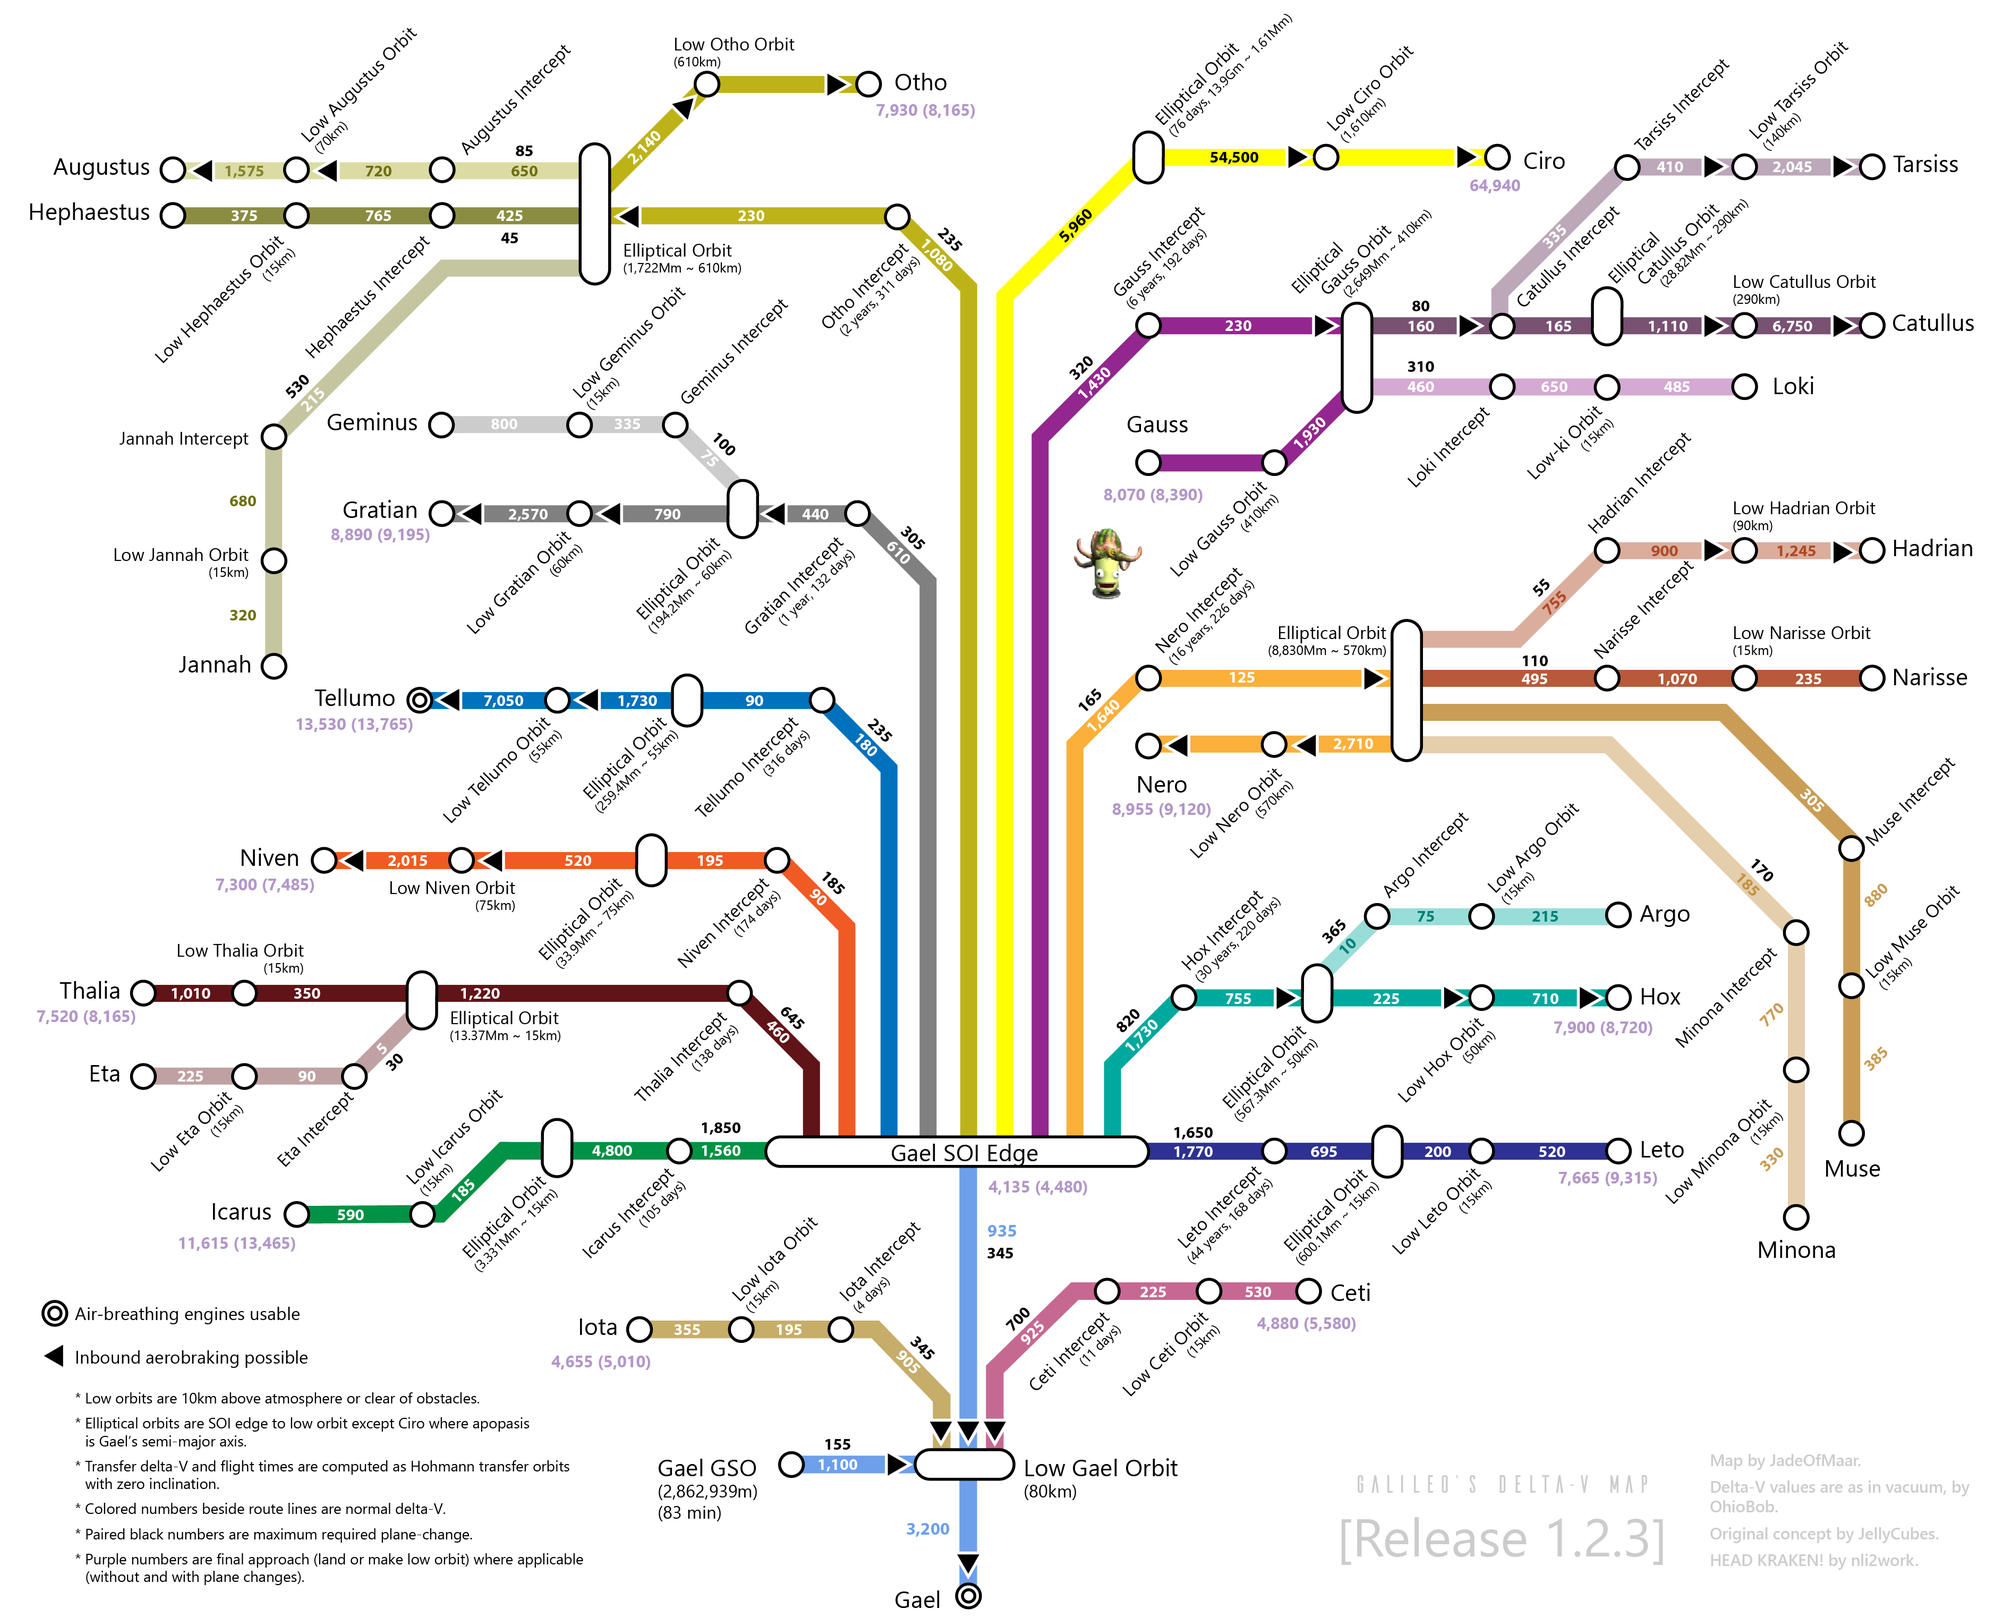
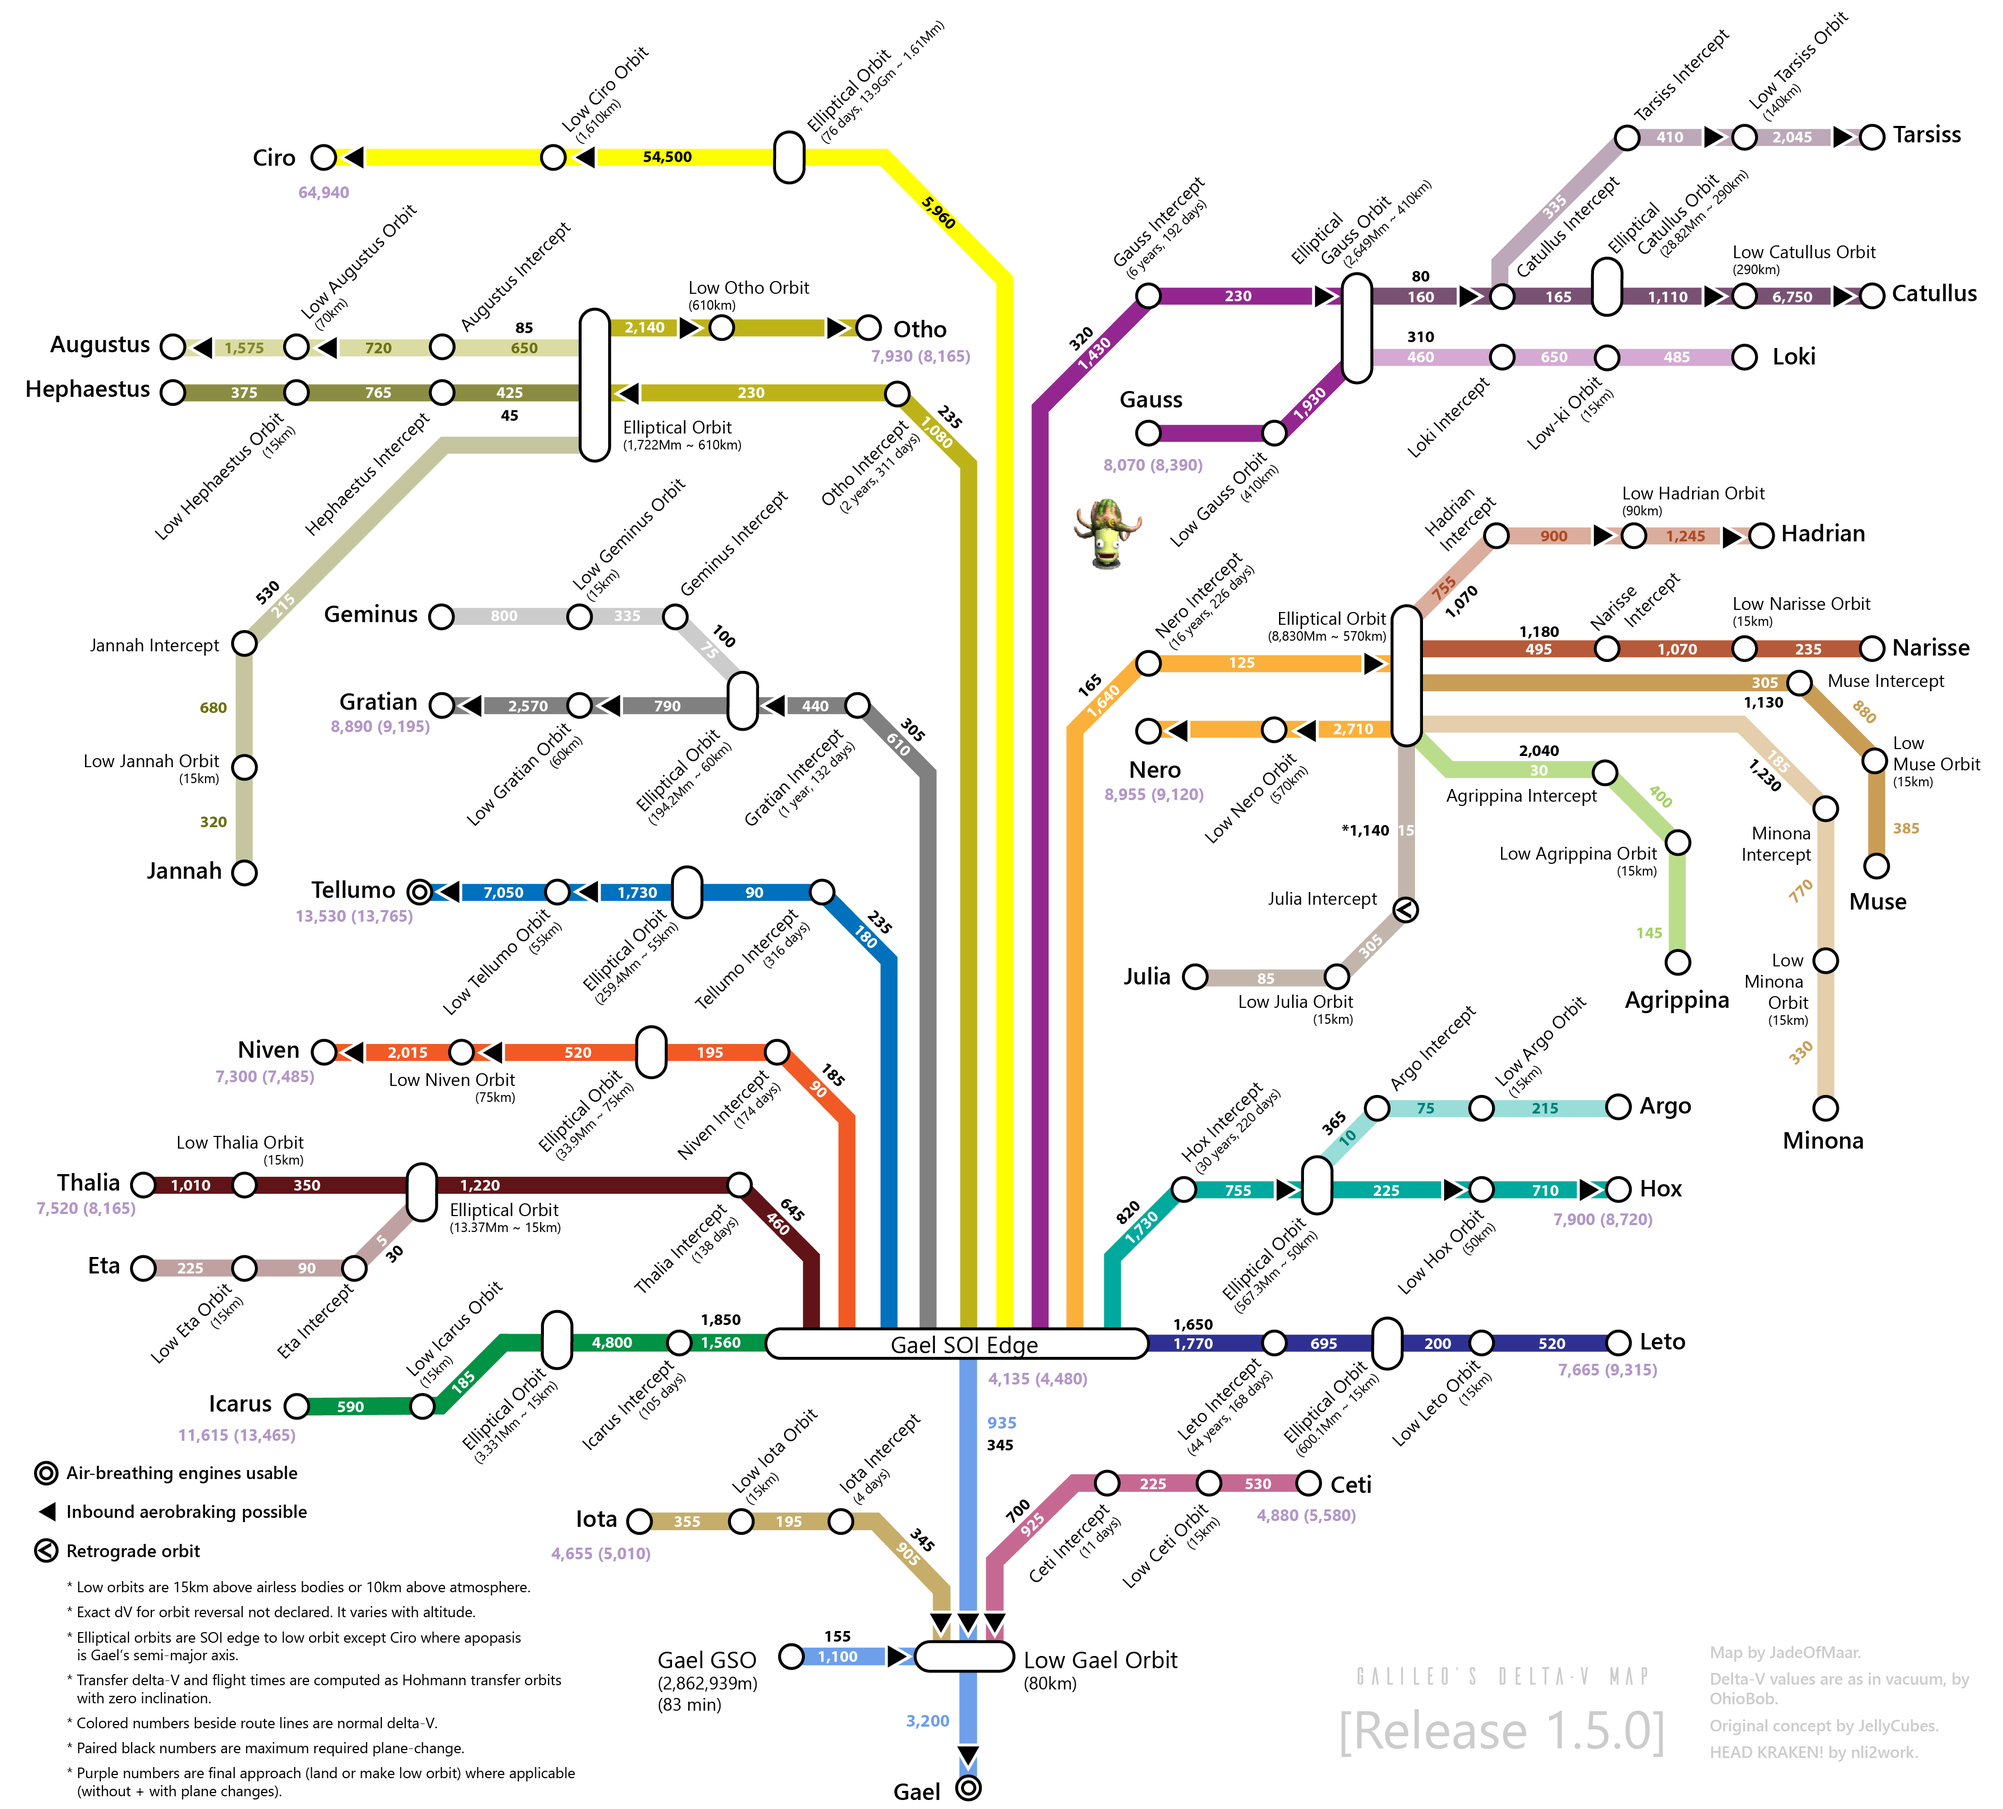
new changelog, dV map update
for v 1.5.0

Changed region(s): [[0.0, 0.0312, 0.9928, 0.9987], [0.6826, 0.9051, 0.9618, 0.9675], [0.5895, 0.0312, 0.6205, 0.0624]]

diff --git a/README.md b/README.md
@@ -107,65 +107,34 @@ GPP's own configs for Sigma Dimensions have been discontinued and removed. To up
 
 
 # Changelog:
-## v1.4.0
+## v1.5.0
 
-* Overall compatibility with KSP 1.3 and Kopernicus v1.3.0-2+.
+* The new sun curves (introduced in Kopernicus 1.3.0-5) have been added to Ciro and Grannus, curing the infinite multiple starlight problem.
 
-  * Lots of PQS and other terrain work.
+* Nero's precession has been removed. There's no more perciveable wobble in the planet.
 
-  * Updated EVE visuals too. Check the gas giants.
+  * Nero's four moons are all now inclined in concert with the rings. See updated dV map in the download. KSPedia has not been updated.
+  
+  * Nero has two new moonlets: Agrippina and Julia. This could be game-breaking.
 
-  * Bundled mods also made 1.3-compatible: KSC Switcher.
+* GPP now alerts the player if GPP_Textures is misplaced or missing.
 
-  * Removed FinalFrontier itself but kept our ribbons for it. Final Frontier now must be installed separately.
+* Preliminary support (Planet Challenge settings) for Station Science Continued.
 
-* Added full support for Kronometer, successor of KopernicusTime.
+* Planet texture updates.
 
-* Added Localizaion support. Currently only English is available.
+* GPP Secondary now handles visual packs. At minimum, SVE, GPP_Clouds, and sunflares for Stock + GPP work seamlessly.
 
-* Added Kerbal Renamer. All newly created kerbals will carry the surname Gaelan instead of Kerman, and references to "Kerbal" have been changed to "Gaelean" wherever possible.
+* Reduced settings in Strategia. (Needs clarification)
 
-* KSC++ is now built into the main GPP directory, and only requires an install of Kerbal Konstructs. With this, other features will also appear.
-
-* Kopernicus Expansion Footprint compatibility.
-
-* Updated LoadingScreenManager. New screenshots, new tips.
-
-* Updated default sunflares.
-
-* Strategia updates.
-
-  * More realistic strategies. No more "cheat" strategies that take the challenge out of GPP.
-
-* Removed GPP_CareerSaver.
-
-* Removed Rescale! folder. To upscale GPP, see [Rescale! Comprehensive SD Configs](http://forum.kerbalspaceprogram.com/index.php?/topic/163965-13-rescale-comprehensive-sd-configs-1021/).
-
-* Created GPP_Secondary (see Optional Mods\ folder) for seamless loading of GPP alongside Stock and/or other star system mods. Visual pack interoperability is not handled and not promised.
-
-  * Any other replacement primary system just needs to reposition Ciro.
-
-  * Do not use with Galactic Neighborhood.
-
-* Created "SuitProgression" upgradeable heat tolerance for EVA kerbals.
-
-  * Each time you ugrade the astronaut complex, the max temperature for a kerbal goes up by 400k, maxing at 1600K.
-
-* Repaired and restored custom science for Gael and its moons.
-
-* Updated ResearchBodies support and added science definitions for its sibling, Tarsier Space Technologies.
-
-* Scatterer support for KSP 1.3.
-
-  * Disabled volumetric clouds on Catullus due to scatterer or EVE bug.
-
-* Added patch to change LqdAmmonia distributions to Ammonia if Kerbalism is present.
+* (WIP) OPM_Galileo will populate Grannus SOI.
 
 
 
 ## Known Issues
-* Catullus does not have volumetric clouds due to a bug with scatterer causing them to turn black. They will return. 
-  * Gratian and Augustus no longer have dust storms due to the same issue as stated above
+* The following bodies no longer have volumetric clouds (including sand storms) due to a bug with scatterer causing them to turn black. They will return:
+
+  * Catullus, Gratian and Augustus.
 
 * Clouds do not show up in main menu. Just a small bug with Kopernicus. not a big deal. Nothing is broken.
 
